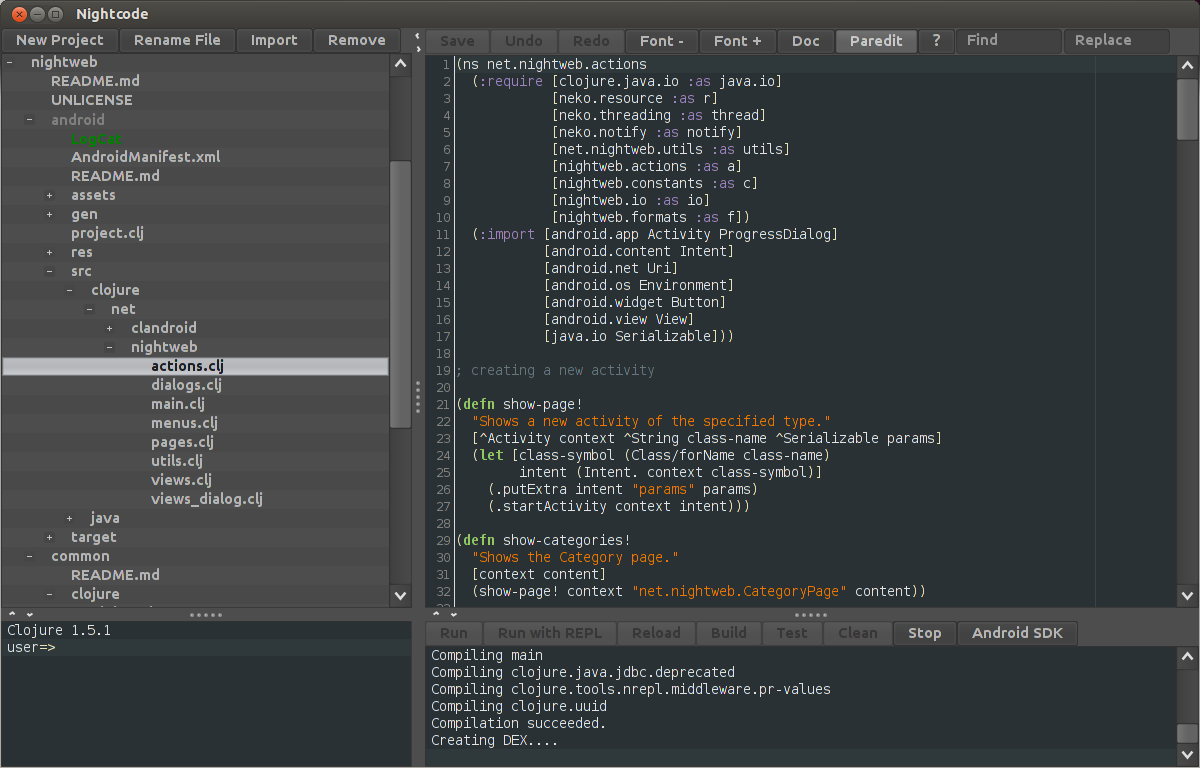
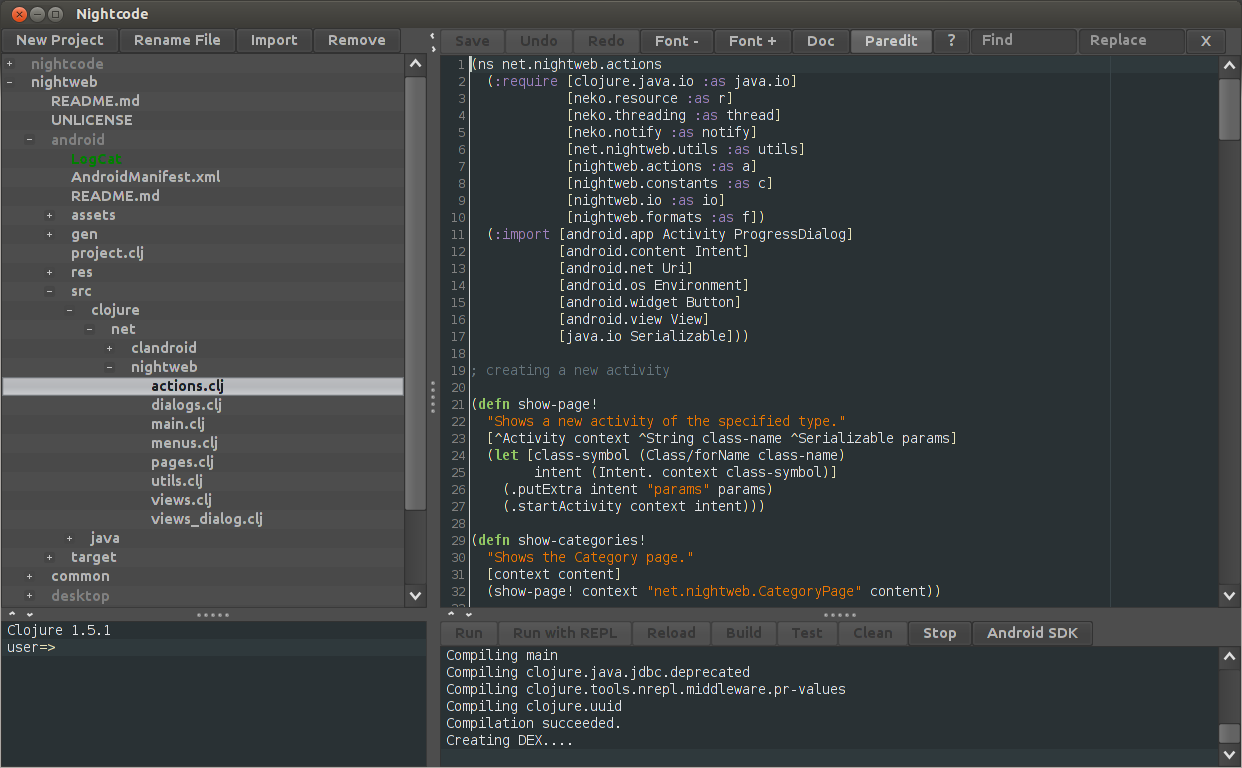
Update link and screenshot

diff --git a/index.html b/index.html
@@ -13,7 +13,7 @@
     alt="Fork me on GitHub"></a>
     <div class='top-left small-text'>Please help fund me <a href='https://www.gittip.com/oakes/'>on Gittip</a>.</div>
     <center><h1>Nightcode</h1></center>
-    <center><a href='https://github.com/oakes/Nightcode/releases/download/0.2.9/nightcode-0.2.9-standalone.jar'>Download Version 0.2.9</a></center>
+    <center><a href='https://github.com/oakes/Nightcode/releases/download/0.3.0/nightcode-0.3.0-standalone.jar'>Download Version 0.3.0</a></center>
     <center class='small-text'>(JDK 7 or above required. Get it for <a href='http://www.oracle.com/technetwork/java/javase/downloads/jdk7-downloads-1880260.html'>Windows/Mac</a> or <a href='http://openjdk.java.net/install/'>Linux</a>.)</center>
     <center><img src='window.png' class='screenshot' /></center>
     <div class='section dark'>
